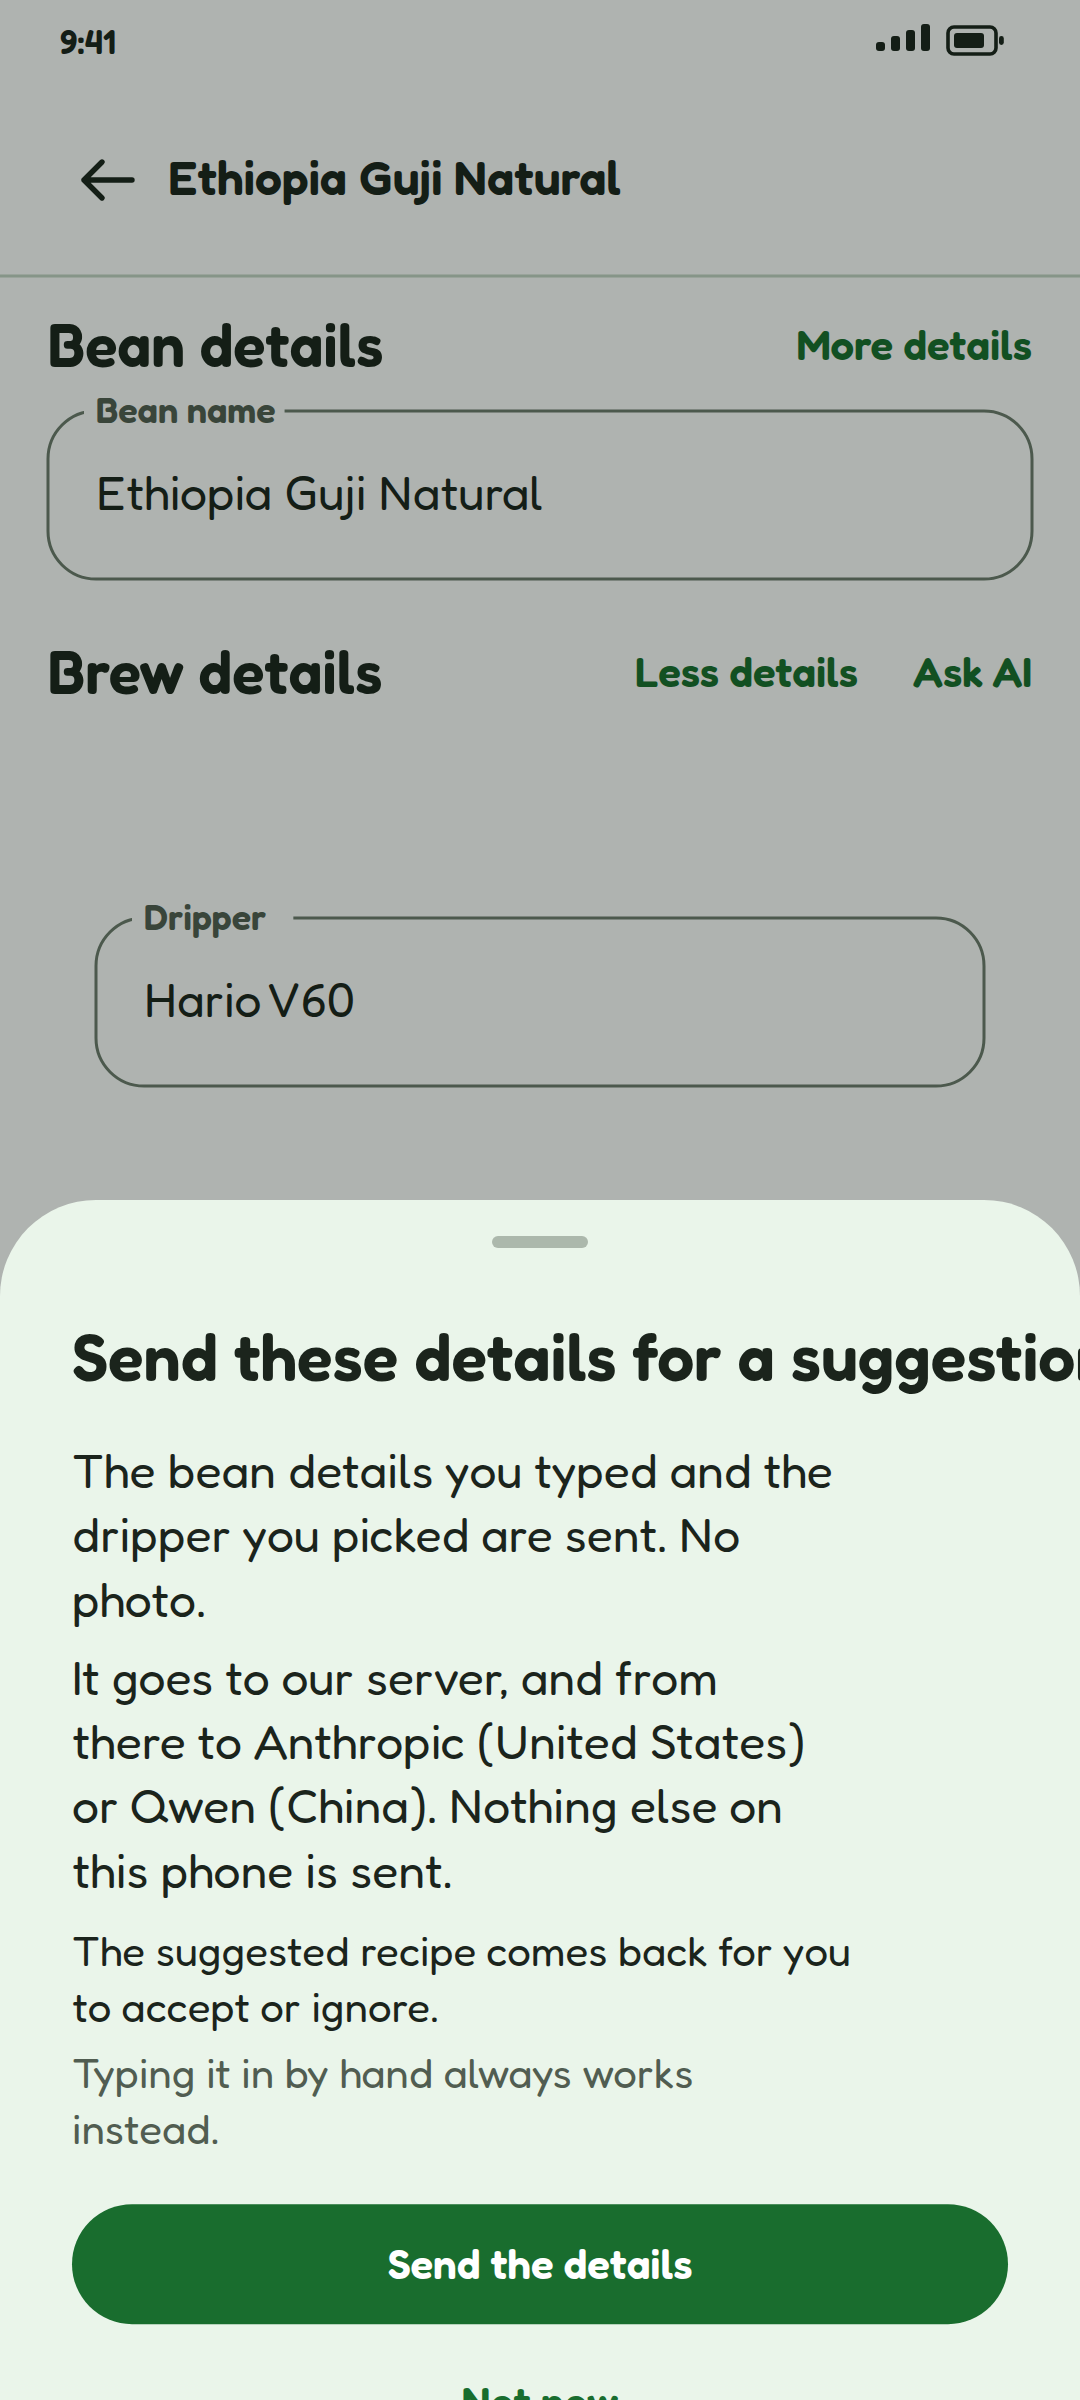
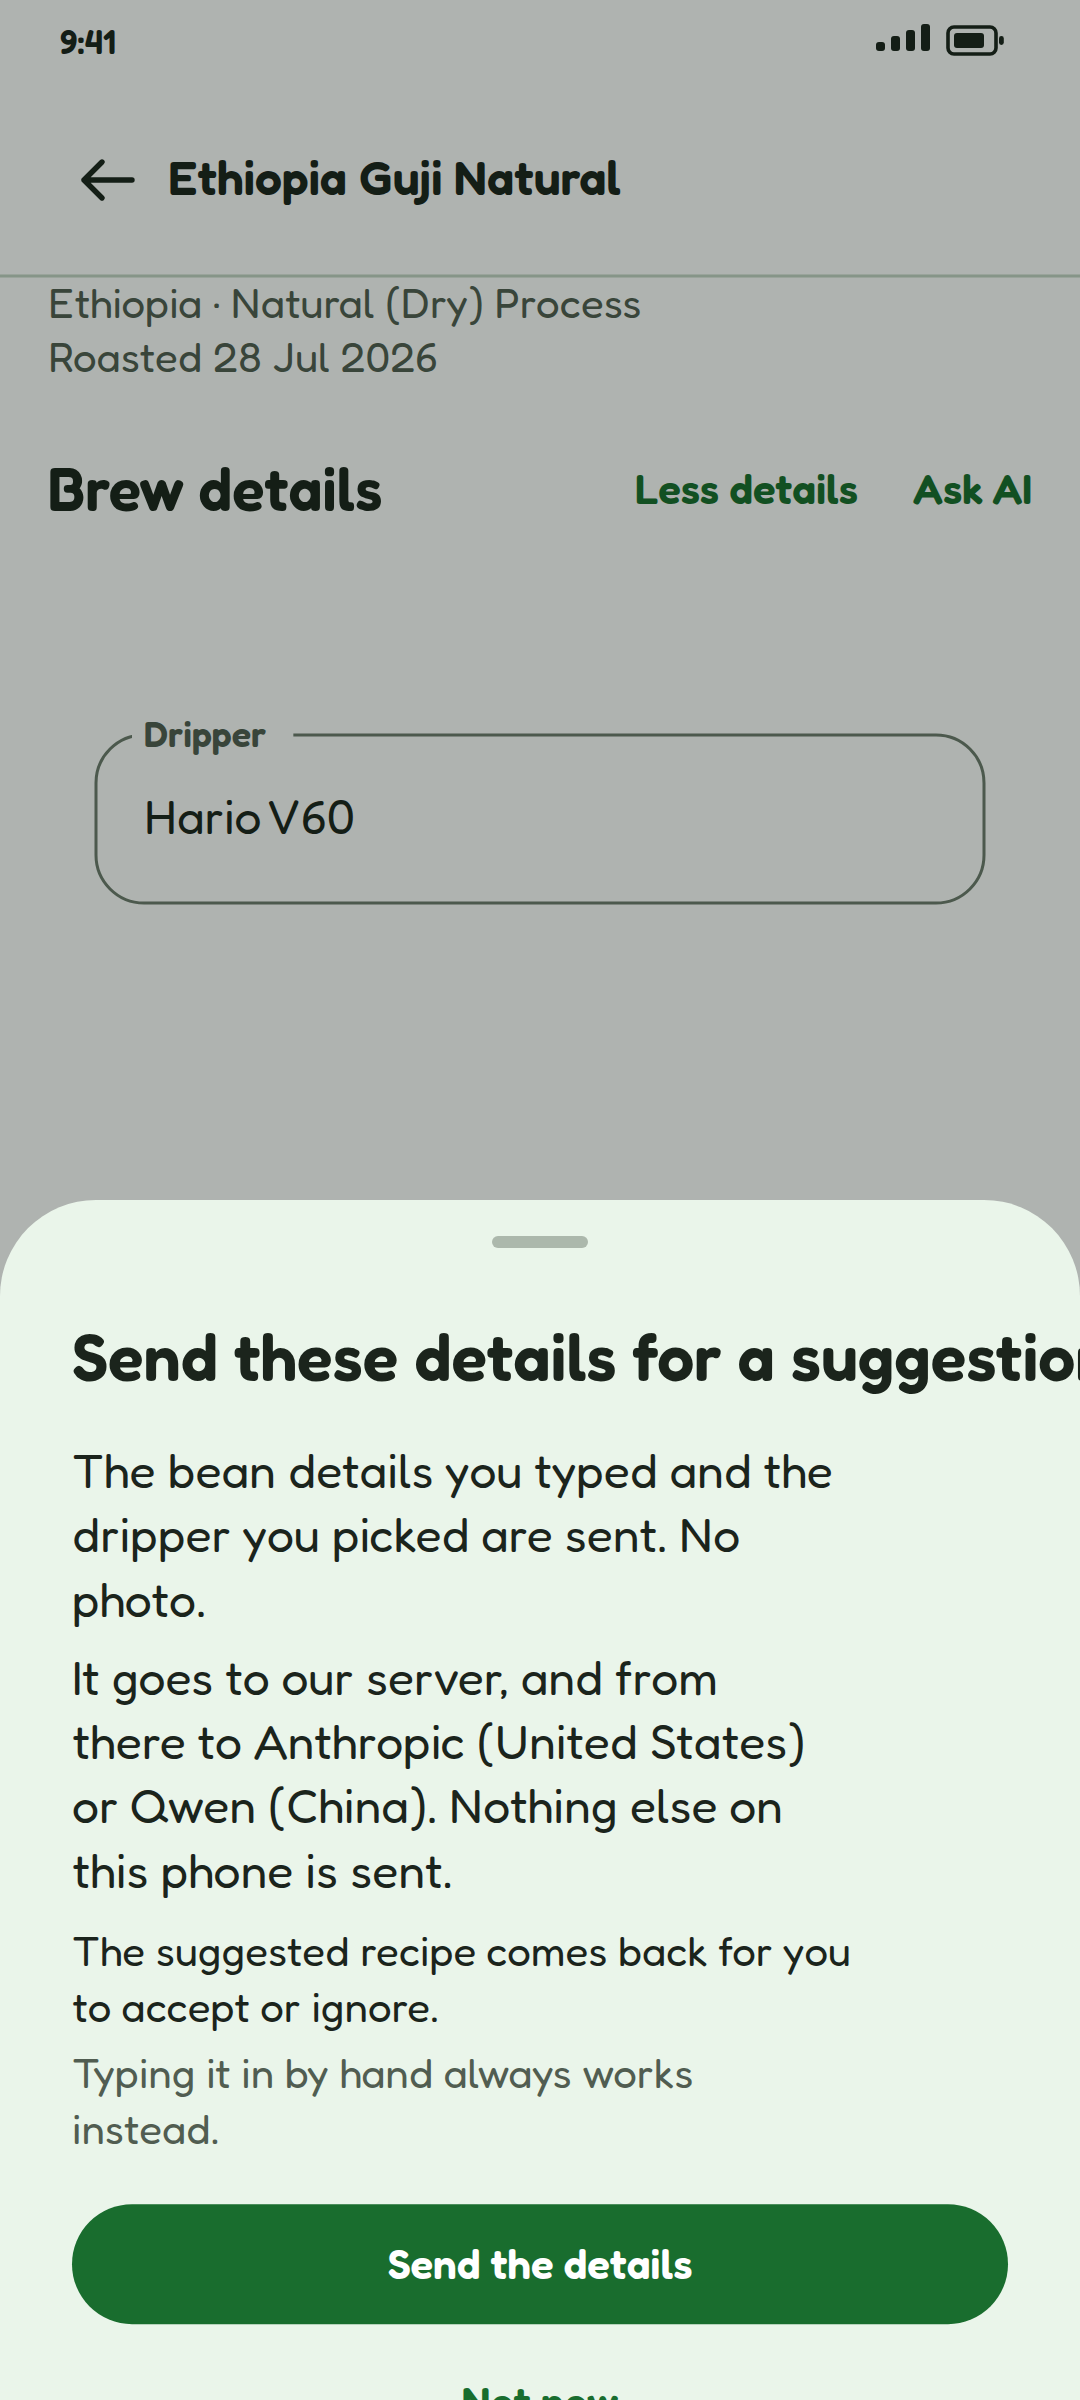
24.08.2026, update UI

diff --git a/coffee_android/plan/v1/screenshots.py b/coffee_android/plan/v1/screenshots.py
@@ -1677,6 +1677,38 @@ def sessions_background(c: Canvas):
         y += 60
 
 
+#: How many photographs fill one line of an images strip -- `ImagesPerLine`
+#: in BeanDetailScreen.kt, which is also what fixes the tile's size.
+IMAGES_PER_LINE = 3
+
+#: The gap between two tiles -- `ImageGap`.
+IMAGE_GAP = 8
+
+
+def image_tile():
+    """One `ImagesStrip` tile: the gutter-to-gutter width, divided three ways.
+
+    Mirrors `ImagesStrip`'s own `BoxWithConstraints` arithmetic. The app takes
+    `maxWidth` from whatever column it was dropped into, which on every screen
+    that draws one is the page's gutters -- so the deck can compute it from
+    [W] and [GUTTER] and land on the same number."""
+    return ((W - 2 * GUTTER) - IMAGE_GAP * (IMAGES_PER_LINE - 1)) / IMAGES_PER_LINE
+
+
+def bean_summary(c: Canvas, y, bean):
+    """`BeanHeaderSummary` -- what the coffee was, in two lines of prose.
+
+    `0.2` has drawn this under its headline since the roast level joined it;
+    since 2026-08-24 `0.31` draws it too, on the one path where it replaced a
+    form (see [bean_block]). Origin, process and roast level `·`-joined, then
+    the roast date on a line of its own."""
+    c.text(GUTTER, y + 14, " · ".join([bean["origin"], bean["process"]]),
+           "bodyMedium", C["onSurfaceVariant"])
+    c.text(GUTTER, y + 32, f"Roasted {bean['roast']}", "bodyMedium",
+           C["onSurfaceVariant"])
+    return y + 48
+
+
 def bean_block(c: Canvas, y, name="", photos=False):
     """`0.31`'s Bean details block (BeanDetailsSection), added 2026-08-21.
 
@@ -1690,6 +1722,15 @@ def bean_block(c: Canvas, y, name="", photos=False):
     than a text button under the field, and it is a toggle: open, it reads
     "Less details". Collapsed is the state every frame here draws.
 
+    A NAMED BEAN NO LONGER DRAWS IT AT ALL (2026-08-24, direct product
+    request). Two of the three ways into `0.31` arrive on a bean with no name
+    -- vibe brewing and a cup -- and this block is how they name it. The third
+    arrives on a bean the user picked *by name*, where a form asking what the
+    coffee was is asking a question answered before the screen opened; that
+    path draws [bean_summary] instead. So the frames that still call this are
+    the two blank-bean ones, and `+1.2_cup_profile` is the only one with
+    `photos`.
+
     `photos=True` is `+1.2`'s case and only its case (2026-08-23,
     BeanDetailsSection's `photosOutsideFold`): a cup's images strip is drawn
     ABOVE the fold, since a cup is the one path where the photograph is the
@@ -1700,21 +1741,29 @@ def bean_block(c: Canvas, y, name="", photos=False):
     y = field(c, y, "Bean name", name)
     if photos:
         y = section(c, y + 6, "Images")
-        # ImagesStrip's add tile: 88dp, R_THUMB, secondaryContainer, a plus
-        # over the label. No thumbnails beside it -- a new cup has none.
-        c.rect(GUTTER, y, 88, 88, C["secondaryContainer"], R_THUMB)
-        cx, cy = GUTTER + 44, y + 36
+        # ImagesStrip's add tile, R_THUMB, secondaryContainer, a plus over the
+        # label. No thumbnails beside it -- a new cup has none.
+        #
+        # THE TILE IS THE COLUMN'S WIDTH DIVIDED BY THREE (2026-08-24), not the
+        # 88dp it was: `ImagesPerLine` photographs and the gaps between them
+        # are exactly the strip's width, so the third one ends flush with the
+        # gutter. The deck has to divide the same way or it draws a tile size
+        # no handset produces.
+        t = image_tile()
+        c.rect(GUTTER, y, t, t, C["secondaryContainer"], R_THUMB)
+        cx, cy = GUTTER + t / 2, y + t / 2 - 8
         c.path(f"M{cx - 8} {cy} h16 M{cx} {cy - 8} v16",
                stroke=C["onSecondaryContainer"], sw=2)
-        c.text(cx, y + 66, "Add img", "labelSmall", C["onSecondaryContainer"], "middle")
-        y += 88
+        c.text(cx, y + t / 2 + 22, "Add img", "labelSmall",
+               C["onSecondaryContainer"], "middle")
+        y += t
     return y + 8
 
 
 def brew_background(c: Canvas):
     status_bar(c)
     y = top_bar(c, BEAN["name"], back=True)
-    y = bean_block(c, y, BEAN["name"])
+    y = bean_summary(c, y, BEAN)
     # Two actions since 2026-08-22: "Ask AI", and the fold. A brew made at
     # home opens with the section *open* -- the dripper, the grind and the
     # pours are what the form is for -- so the label reads "Less details"
@@ -1735,10 +1784,12 @@ def brew():
     c = Canvas("+1.1 Log a brew")
     status_bar(c)
     y = top_bar(c, BEAN["name"], back=True)
-    # What the coffee was, before how it was brewed (2026-08-21). "Ask AI"
-    # survives *here* and nowhere else: it sends the bean, and this is the one
-    # path whose bean was named before the form opened.
-    y = bean_block(c, y, BEAN["name"])
+    # What the coffee was, before how it was brewed (2026-08-21) -- as two
+    # lines of prose since 2026-08-24, not as a form. This is the one path
+    # whose bean was named before the form opened, which is both why the
+    # editable block went (there is nothing here to name) and why "Ask AI"
+    # survives here and nowhere else (there is a bean to ask about).
+    y = bean_summary(c, y, BEAN)
     y = section(c, y, "Brew details", action="Ask AI")
 
     # 16 of card padding, the 52dp brewed row, then four 46dp capsule pairs

diff --git a/coffee_android/plan/v1/design-spec.md b/coffee_android/plan/v1/design-spec.md
@@ -630,8 +630,15 @@ rather than shipped as frozen pictures**, so the poses can move.
   **pour-over** (rest and tilted), **shutter-flash** (the scan prompt), and
   **heartbreak** (whole and settled — empty and error states).
 - **The images strip** (`ImagesStrip`, shared by `0.1`, `0.2` and the brew/cup
-  form) carries **two gestures on one long press** (2026-08-23, direct product
-  request). Long-press *and move* drags a photo to reorder the strip; long-press
+  form) sizes its tiles to **three to a line** (`ImagesPerLine`, 2026-08-24,
+  direct product request). The tile is not a constant: `BoxWithConstraints`
+  divides the width the strip was given by three, less the two `ImageGap`s, so
+  the third photograph ends flush with the gutter on any handset rather than
+  landing wherever an 88dp tile happened to fall. `ImageTile` survives as the
+  **floor** for a container too narrow for that. The drag's step pitch follows
+  the measured tile, or a reorder would displace at the wrong distance on every
+  screen but the one it was tuned on. It carries **two gestures on one long
+  press** (2026-08-23, direct product request). Long-press *and move* drags a photo to reorder the strip; long-press
   *and release* opens a menu with **Delete photo**. Both come from one
   `detectDragGesturesAfterLongPress` — it fires `onDragStart` the moment the
   press lands, and the release decides which act it was — because a separate
@@ -1195,6 +1202,22 @@ One café: name, visit date, city, **address**, **barista**, note, up to
 three photographs, and the **Cups** block. No scan card (a café has no label)
 and no radar (a journey has no flavour).
 
+**Its app bar is frosted, and has no rule under it** (2026-08-24, direct
+product report: the header "doesn't have shade and transparent", and "its
+boundary line should be removed"). It was the last bar on the journey path
+still painting an opaque strip and closing it with a `TopBarDivider` — the
+exact seam `axisChromeScrim()` exists to remove, and one `+1` had already
+dropped. The two pages are meant to read as one place, so the bar you push
+from and the bar you land on cannot be different objects. The graded scrim
+**replaces** the divider rather than joining it: the frost holds for most of
+the bar's height and releases over the last third, so the page emerges from
+under the bar instead of starting at a line, and drawing both would be a soft
+edge with a hard one on top of it. The content column spends the bar's height
+as a spacer *inside* its scroll rather than as viewport padding — the same call
+`JourneysScreen`'s list makes, and for the same reason: top padding fills the
+strip behind a translucent bar with the page's own background, which would put
+the frost over a flat colour and make it a solid bar again.
+
 **Swipe right to go back to `+1`** (2026-08-23, direct product request). This
 page is a push on top of the axis, and the axis is horizontal — Can travel is
 the page you came from, so dragging the café rightwards putting it back is a
@@ -1529,12 +1552,50 @@ through the draft (§9); it simply has no input any more, and the pour stages
 below still ask per pour — which is where a temperature that changes mid-brew
 was always recorded.
 
-**Bean details sits above Brew details** (`BeanDetailsSection`, 2026-08-21,
-direct product request). It shows **one** input, the bean's name, and
-**More details** as the section heading's own trailing action; pressing that
-reveals `0.1`'s own `BeanFieldsGrid` (origin, variety, altitude, roaster,
-producer, process, roast date, note) and `ImagesStrip` beneath it, with the
-photo sheet and the roast-date picker wired exactly as on `0.1`.
+**The title header pins, frosted, exactly as `0.2`'s does** (2026-08-24,
+direct product request: on a new cup and on a new session "the header section
+should have a shade and reside on top effect just as the title header in bean
+profile page"). The bean's name freezes into a strip at the top of the window
+the moment the headline has travelled under the status bar, over
+`axisChromeScrim()` + `axisChromeSheen()` so the photo and the panel pass
+beneath it. `titleTopPx` is **measured**, not inferred from the scroll offset:
+the hero shrinks before the panel moves, so a threshold on the offset fires at
+the wrong time on a photo with a different aspect. The strip is inset 72dp at
+both ends to clear the floating back and share discs — it is a label, not a
+replacement top bar, and it must not land on the controls already up there.
+`0.2` and `0.31` are the same shape of page, so this is deliberately the same
+construction and not a similar one.
+
+**Bean details sits above Brew details — on a bean that still has to be named**
+(`BeanDetailsSection`, 2026-08-21; gated 2026-08-24). It shows **one** input,
+the bean's name, and **More details** as the section heading's own trailing
+action; pressing that reveals `0.1`'s own `BeanFieldsGrid` (origin, variety,
+altitude, roaster, producer, process, roast date, note) and `ImagesStrip`
+beneath it, with the photo sheet and the roast-date picker wired exactly as on
+`0.1`.
+
+**A brew of a bean out of the can draws none of it** (2026-08-24, direct
+product request: "when add new session in an already created bean, remove bean
+details in the add session page — the details are written on the header
+section"). On that path the block was eight capsules and a photo strip
+restating a bean the user picked *by name* two taps earlier, sitting between
+the headline and the brew fields they came for. `BeanHeaderSummary` — `0.2`'s
+own summary lines, the same composable, so the two pages state a bean's
+identity in one voice — takes its place: origin · process · roast level, then
+the roast date. Nothing is lost, because everything the block could show that
+those two lines cannot is an *input*, and inputs for a bean belong on the bean.
+
+The test is `beanNamed`, and it is **emptiness, not provenance** — the same
+rule `leaveWithoutSaving` applies. Nothing is threaded down to say "this came
+from vibe brewing"; a bean with no name is one this form has to be able to
+name, whatever route produced it, which keeps vibe brewing on the full block
+without it having to announce itself. It is read off the **stored row at
+hydration**, never off `beanDraft`, because the draft's name changes as the
+user types and a live test would tear the section off the page mid-word on the
+one path that needs it most. **A cup keeps the block whatever its bean is
+called** (`cup ||`): `photosOutsideFold` exists because a cup's photograph is
+the point and there is never one yet, so dropping the block on a saved cup
+would take the only "+" tile with it.
 
 **It is a toggle, and it lives on the heading** (2026-08-21, direct product
 request). Open, the action reads **Less details** and a second press folds the
@@ -1552,10 +1613,10 @@ than as one more control in the form's stack.
 no name — vibe brewing creates a blank row so the session has something to
 belong to, and a cup (§8.6c) is a coffee this phone has never seen — and until
 this block existed neither could say what the coffee *was* without leaving the
-form. *Why it starts collapsed on every path,* including a bean whose fields
-are full: this is a brew form, the block is eight optional inputs plus a photo
-strip, and opening it pushes Brew details a screen and a half down for the
-commonest way in.
+form. *Why it starts collapsed on the paths that still draw it:* the block is eight
+optional inputs plus a photo strip, and opening it pushes Brew details a screen
+and a half down. (Until 2026-08-24 that argument also had to cover a bean whose
+fields are full, because the block was drawn there too; now it simply is not.)
 
 The bean draft follows the same discipline as the session beside it — typing
 reaches Room only on Save, it counts towards `dirty`, and it locks with the

diff --git a/coffee_android/plan/v1/coupling-spec.md b/coffee_android/plan/v1/coupling-spec.md
@@ -249,6 +249,9 @@ backwards (`AiGateway.kt:103`). Do not "fix" it into the `call()` path.
 | A screen's Scaffold | Keep it **per page, inside the pager** — hoisting it applies window insets twice (`Axis.kt:99`) | device only |
 | A composable's look | Its golden(s). `grep -rn 'import app.coffeecan.*<Name>' app/src/test/` names the test that owns it | `V2` |
 | A repository method a screen uses | Mark it `open` and add it to `TestFakes.kt` — screenshot tests substitute the repository (`CoffeeCanApp.kt:45`) | `V2` |
+| `ImagesPerLine`, `ImageGap`, or `ImagesStrip`'s tile arithmetic | **`plan/v1/screenshots.py`'s `image_tile()`**, which divides `W`/`GUTTER` the same way and would otherwise draw a tile size no handset produces. The drag's step pitch is derived from the same number *inside* the composable — if you reintroduce a constant there, a reorder displaces at the wrong distance on every screen but the one it was tuned on | `V1`, `V1b`, `V2` |
+| A top bar to or from the frosted treatment (`axisChromeScrim` + `axisChromeSheen`, `Color.Transparent`) | **Drop `TopBarDivider`** — the graded scrim replaces the rule, and drawing both is a soft edge with a hard one on top. And spend the bar's height as a **spacer inside the scroll**, never as `.padding(padding)`: top padding fills the strip behind the bar with the page's own background, so the frost lands on a flat colour and reads as solid again. `JourneysScreen` (as `contentPadding`) and `JourneyDetailScreen` (as a `Spacer`) are the two worked examples | `V2` |
+| Which of `0.31`'s three paths draws `BeanDetailsSection` | `BrewSessionScreen.beanNamed` is read **once, at hydration, off the stored row** — `beanDraft.name` changes as the user types and would tear the block off mid-word. The `cup ||` in front of it is load-bearing: `photosOutsideFold` is a cup's only door to a photograph. The deck mirrors the split — `screenshots.py`'s `bean_block` for the blank-bean frames, `bean_summary` for `0.31` | `V1b`, `V2` |
 
 ---
 
